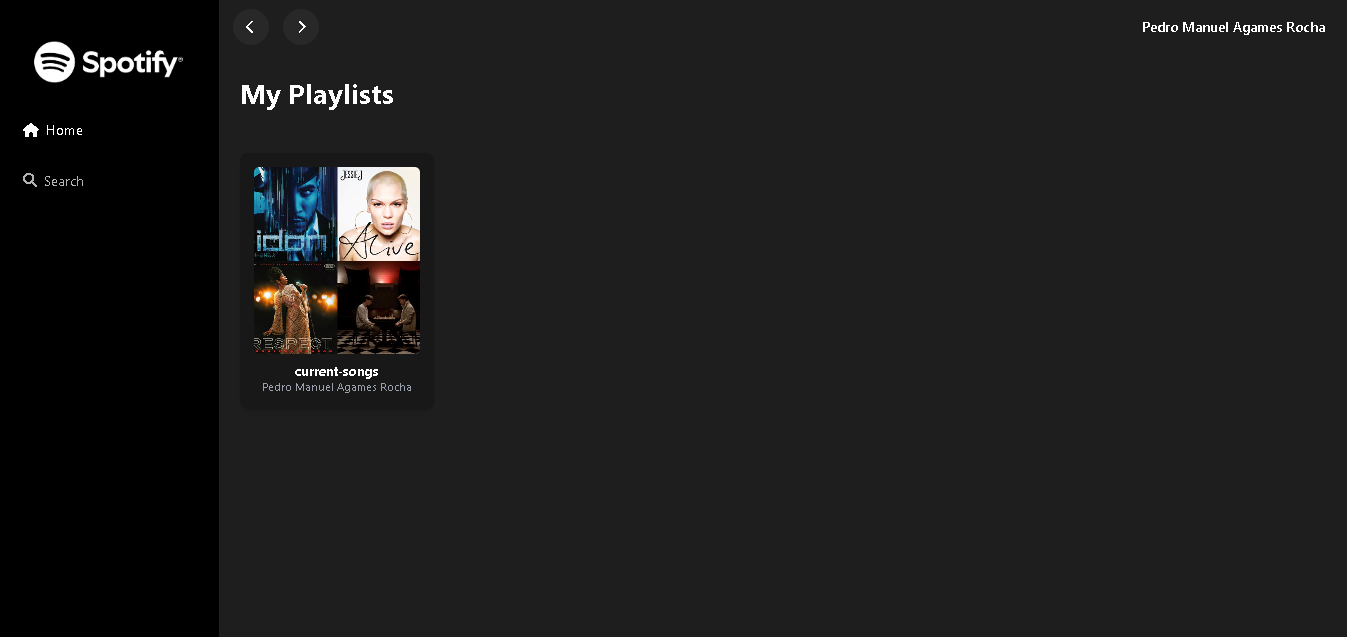
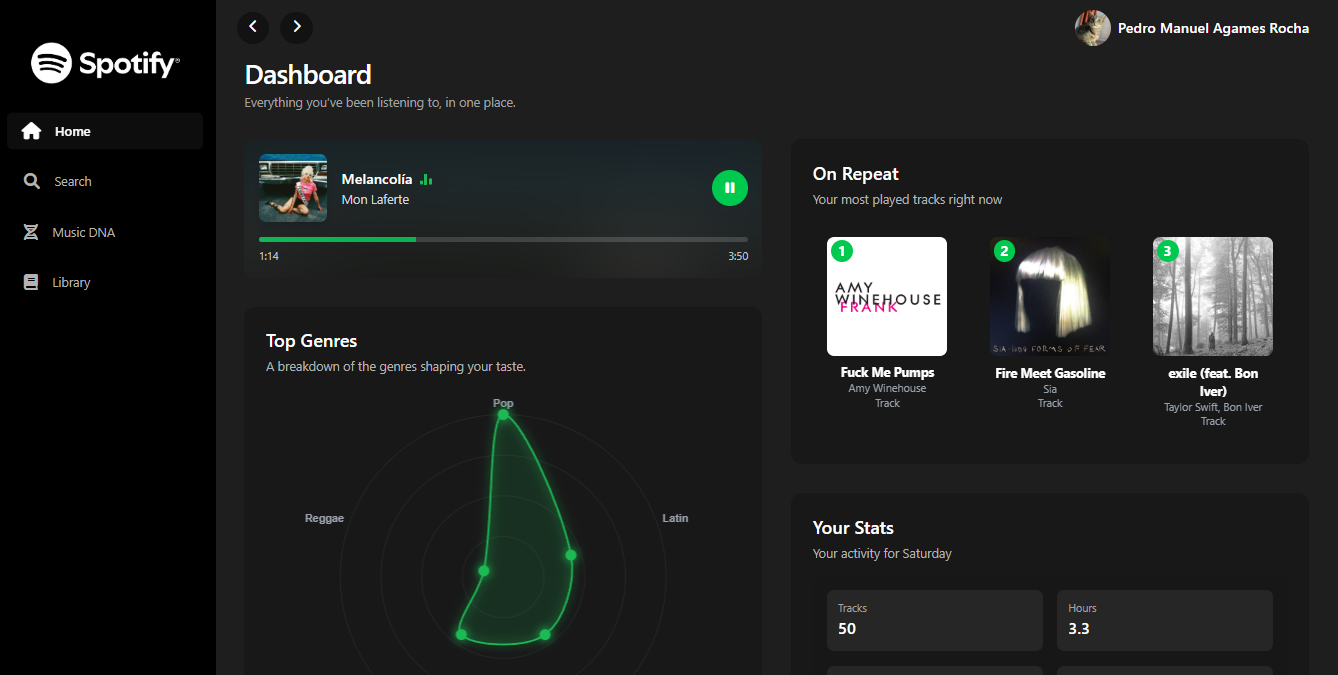
docs(global): :memo: update README with latest changes

diff --git a/README.md b/README.md
@@ -1,80 +1,144 @@
+# Spotify Insight
 
-# SPOTIFY-APP
+A modern web application that lets you explore your Spotify data in a clean, interactive, and visually engaging way. Discover your listening habits, favorite artists, albums, and tracks — all in one place.
 
-## Note on Spotify API Access
+---
 
-This application is part of a technical test and is currently in **development mode**, which restricts access to approved users in the **Spotify Developer Dashboard**.  
+## Important: Spotify API Access
 
-To evaluate it without restrictions, the production access request must be approved in the Spotify dashboard. The application will not be used in a real production environment but solely for testing purposes, allowing any Spotify account to authenticate and test its functionality.  
+This application uses the **Spotify Web API**, which operates in **development mode**.
 
-Login Test: 
+To access the app, your Spotify account **must be registered in the Spotify Developer Dashboard** as an authorized user.
 
-Email: ntesting797@gmail.com
+If you want access:
 
-Password: 4QKL3z#sSeJ@c6^
+* Contact via WhatsApp: **+57 300 385 5478**
+* Share the email associated with your Spotify account
+* Your email will be added to the authorized users list
 
+Once added, you'll be able to log in and use the app without restrictions.
 
-## Table of Contents
-- [Overview](#overview)
-- [Built With](#built-with)
-- [Features](#features)
-- [Instructions](#instructions)
-- [How to Use](#how-to-use)
+---
 
 ## Overview
-![Auth](/public/assets/images/sign-in.PNG)
-![Dashboard](/public/assets/images/home.PNG)
-![Search](/public/assets/images/searched-init.PNG)
-![Search](/public/assets/images/searched-two.PNG)
-![Albums](/public/assets/images/albums.PNG)
-![Tracks](/public/assets/images/songs.PNG)
 
+![Dashboard](/public/assets/images/home.PNG)
+![Artist](/public/assets/images/artist.png)
+![Albums](/public/assets/images/album.PNG)
+![Tracks](/public/assets/images/song.PNG)
+![Search](/public/assets/images/searched-init.PNG)
+![Search Results](/public/assets/images/search-result.png)
+![Library](/public/assets/images/libray.png)
+![Auth](/public/assets/images/sign-in.PNG)
+
+---
 
 ## Built With
-- [Angular](https://angular.io/)
-- [Font Awesome](https://fontawesome.com/)
-- [Tailwind CSS](https://tailwindcss.com/)
-- [Spotify API](https://developer.spotify.com/)
-- [Angular Router](https://angular.io/guide/router)
+
+* [Angular](https://angular.io/)
+* [Tailwind CSS](https://tailwindcss.com/)
+* [Font Awesome](https://fontawesome.com/)
+* [Spotify Web API](https://developer.spotify.com/)
+* [Angular Router](https://angular.io/guide/router)
+
+---
 
 ## Features
-- Sign-In
-- Dashboard
-- Search
-- Albums
-- Tracks
+
+* Spotify Authentication
+* Personalized Dashboard
+* Smart Search (artists, albums, tracks)
+* Artist Insights
+* Album Details
+* Track Analysis
+* Playlist Exploration
+* Music DNA (listening behavior insights)
+* Deep Library 
+
+---
 
 ## Inspiration
-This app is inspired by the [Spotify UI Kit](https://www.figma.com/design/eFrlbCLS6zHD9xGj7RmSse/Spotify-UI---Free-UI-Kit-(Recreated)-(Community)?node-id=0-346&t=1BPhx9bfPPgAnpI6-0) from Figma. It follows a similar design and layout, providing a clean and user-friendly interface to navigate through music-related content.
 
-## Instructions
+This project is inspired by the
+[Spotify UI Kit on Figma](https://www.figma.com/design/eFrlbCLS6zHD9xGj7RmSse/Spotify-UI---Free-UI-Kit-%28Recreated%29-%28Community%29?node-id=0-346&t=1BPhx9bfPPgAnpI6-0),
+aiming to replicate and enhance the Spotify experience with a modern frontend architecture.
 
-1. **Prerequisites**
-   - Ensure that you have [Node.js](https://nodejs.org/es/) installed on your computer.
-   - Ensure that you have [Git](https://git-scm.com/downloads) installed on your computer.
-   - Make sure you have access to the Spotify API (you'll need an API key).
+---
 
-## How to Use
+## Setup & Installation
+
+### 1. Prerequisites
+
+Make sure you have installed:
+
+* [Node.js](https://nodejs.org/)
+* [Git](https://git-scm.com/)
+
+---
+
+### 2. Clone the repository
 
 ```bash
-   # Clone this repository
-   $ git clone https://github.com/peterleunam1/spotify-app
-
-   # Navigate to the project folder
-   $ cd spotify-app
-
-   # Install dependencies
-   $ npm install 
-
-   # Run the app in development mode
-   $ ng serve
-
-   # Build app for production
-   $ ng build --prod
-
-   # Start app
-   $ npm start
-
-   # Run tests
-   $ npm run test
+git clone https://github.com/peterleunam1/spotify-app
+cd spotify-app
 ```
+
+---
+
+### 3. Install dependencies
+
+```bash
+npm install
+```
+
+---
+
+### 4. Run in development mode
+
+```bash
+ng serve
+```
+
+Then open:
+
+```
+http://localhost:4200
+```
+
+---
+
+### 5. Build for production
+
+```bash
+ng build --configuration=production
+```
+
+---
+
+### 6. Run tests
+
+```bash
+npm run test
+```
+
+---
+
+## Notes
+
+* This app requires a valid Spotify account.
+* Access is restricted to authorized users configured in the Spotify Developer Dashboard.
+* If you cannot log in, make sure your email has been registered.
+
+---
+
+## Contact
+
+For access requests or questions:
+
+WhatsApp: **+57 300 385 5478**
+
+---
+
+## Author
+
+Developed with a focus on clean architecture, reactive patterns, and scalable frontend design.
